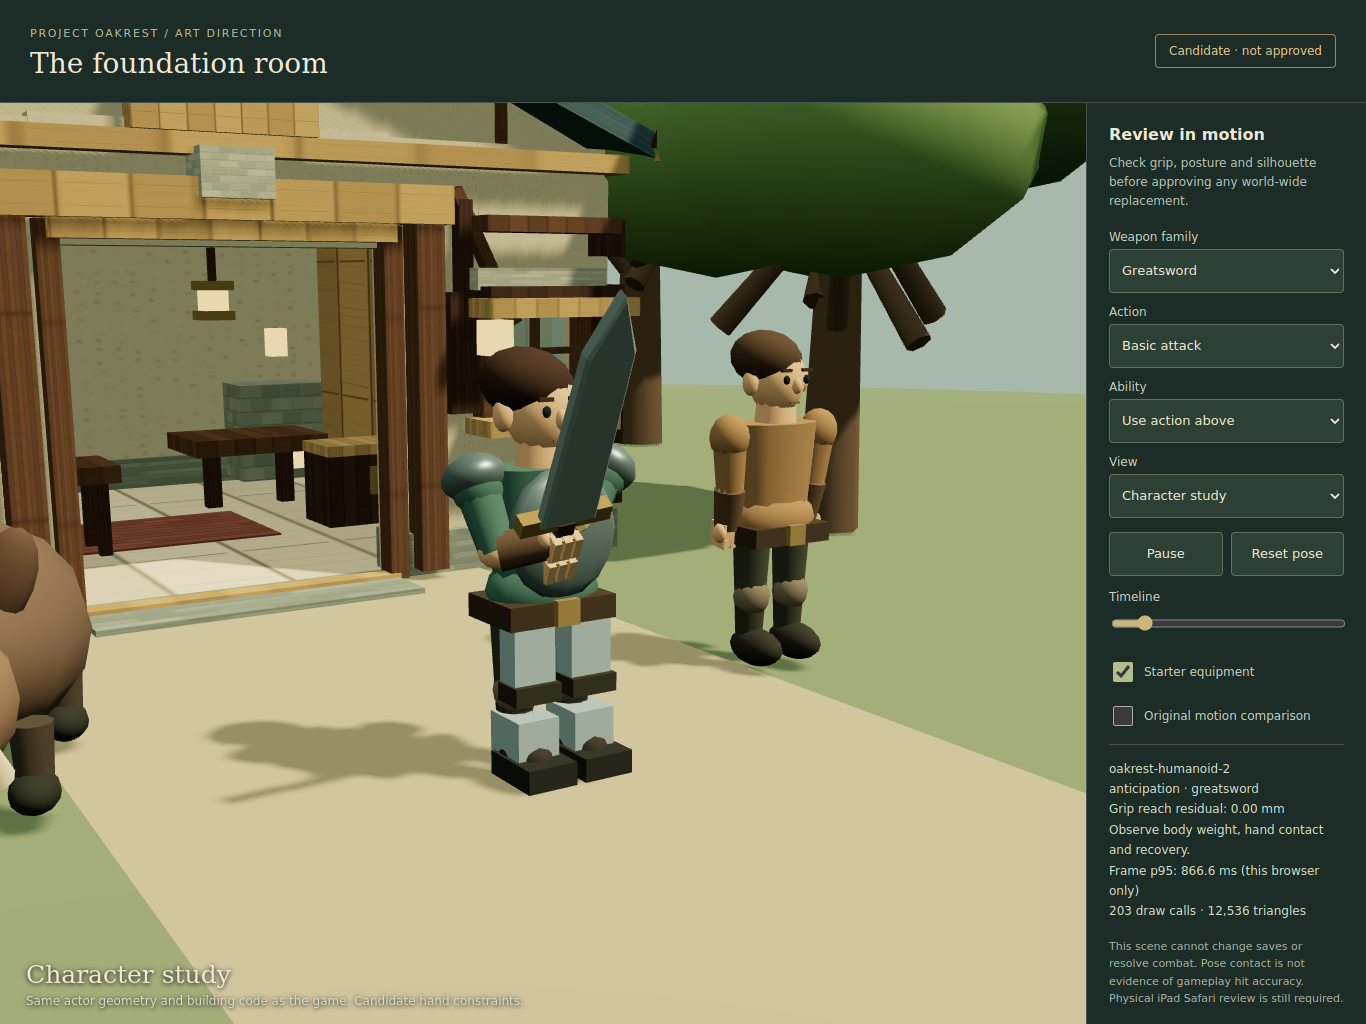
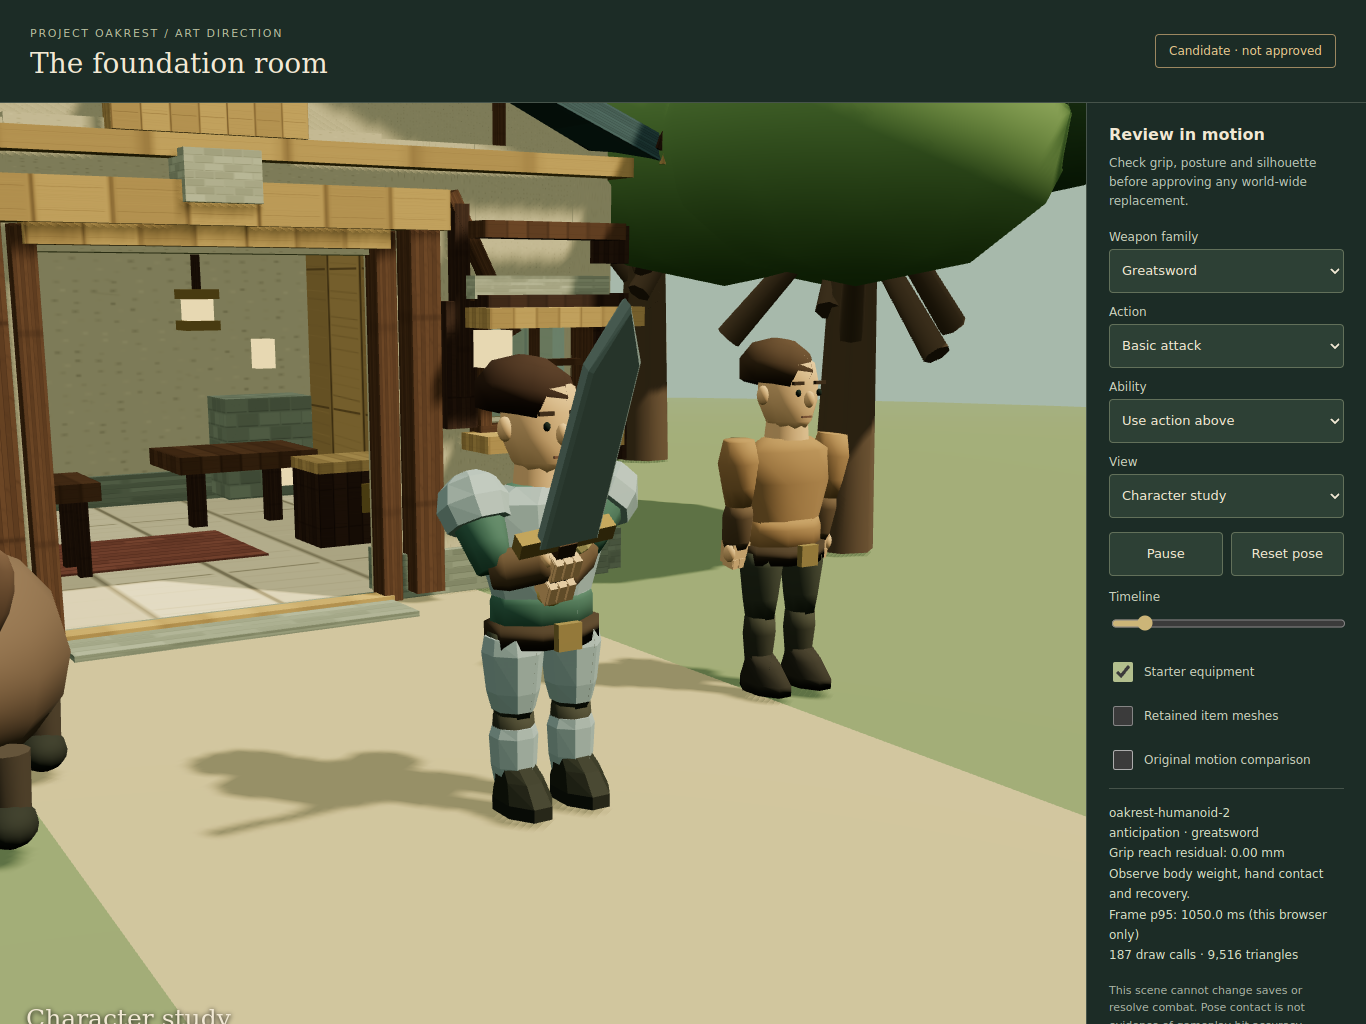
Shape canonical body and fitted armour around shared joint anchors

Changed region(s): [[0.0, 0.0938, 0.9839, 1.0], [0.7379, 0.0938, 0.7994, 0.2188], [0.7072, 0.2188, 0.7379, 0.25]]

diff --git a/src/actors.js b/src/actors.js
@@ -5,6 +5,7 @@ import {abilityMotion} from './animation-language.js';
 import {restoreKayKitPose,applyKayKitPose} from './kaykit-motion.js';
 import {animateFoundation} from './foundation-motion.js';
 import {HUMANOID_RIG_VERSION,HUMANOID_JOINTS} from './rig-contract.js';
+import {HUMANOID_SHAPES as shapes} from './humanoid-shapes.js';
 import {AXE_BY_ID} from './woodcutting.js';
 const materials=new Map(),geometries=new Map();
 const material=(color,metal=false)=>{const key=color+metal;if(!materials.has(key))materials.set(key,new THREE.MeshStandardMaterial({color,roughness:metal?.38:.88,metalness:metal?.55:0}));return materials.get(key);};
@@ -17,43 +18,53 @@ function pivot(parent,x,y,z){const p=new THREE.Group();p.position.set(x,y,z);par
 function taperedBlade(g,length,width){const shape=new THREE.Shape();shape.moveTo(-width/2,0);shape.lineTo(-width*.4,-length*.78);shape.lineTo(0,-length);shape.lineTo(width*.4,-length*.78);shape.lineTo(width/2,0);shape.closePath();const geo=new THREE.ExtrudeGeometry(shape,{depth:.055,bevelEnabled:true,bevelSize:.018,bevelThickness:.018,bevelSegments:1,steps:1});geo.rotateX(Math.PI/2);mesh(g,geo,'#b4c9cc',0,0,-.2,1,1,1,true);}
 export function createActor(bandit=false,{foundation=false}={}){
  const g=new THREE.Group(),rig=pivot(g,0,0,0),skin=material(bandit?'#b88b69':'#d6aa83').clone(),body=material(bandit?'#6a4d4e':'#607b7c').clone(),cloth=material('#34574e').clone();
- const torso=tube(rig,body,0,1.43,0,foundation?.37:.43,foundation?.29:.31,.82);torso.scale.z=.62;
+ const torso=foundation?mesh(rig,shapes.torso,body,0,1.43,0):tube(rig,body,0,1.43,0,.43,.31,.82);if(!foundation)torso.scale.z=.62;
  const trimMat=material('#c9b28a').clone();
  const outfitTrims=[
   block(rig,trimMat,0,1.46,-.275,.085,.56,.028),
   block(rig,trimMat,-.12,1.44,-.28,.045,.52,.03),
   block(rig,trimMat,.12,1.44,-.28,.045,.52,.03)
  ];
- ball(rig,body,0,1.12,0,.36,.23,.25);
+ if(foundation)mesh(rig,shapes.hips,body,0,1.12,0);else ball(rig,body,0,1.12,0,.36,.23,.25);
  const neck=tube(rig,skin,0,1.94,0,.14,.16,.22);
- const head=pivot(rig,0,2.15,0);const face=ball(head,skin,0,0,0,foundation?.245:.275,foundation?.30:.34,foundation?.235:.26);
+ const head=pivot(rig,0,2.15,0);const face=foundation?mesh(head,shapes.face,skin,0,0,0):ball(head,skin,0,0,0,.275,.34,.26);
  const hairMat=material('#40332a').clone();
- const hair=ball(head,hairMat,0,.17,.055,.285,.23,.27);
+ const hair=mesh(head,foundation?shapes.hair:sphere,hairMat,0,.17,.055,.285,.23,.27);
  const hairBack=ball(head,hairMat,0,-.15,.19,.24,.38,.13);hairBack.visible=false;
  const hairTail=ball(head,hairMat,.12,-.18,.30,.11,.32,.11);hairTail.visible=false;
  const hairCurls=[[-.20,.24,-.06],[0,.32,-.09],[.20,.24,-.06]].map(([x,y,z])=>{const curl=ball(head,hairMat,x,y,z,.11,.12,.12);curl.visible=false;return curl;});
- for(const s of [-1,1]){ball(head,skin,s*.27,-.01,.01,.065,.11,.07);ball(head,'#26332e',s*.105,.015,-.237,.03,.037,.02);block(head,'#493a2c',s*.11,.09,-.235,.10,.025,.03);}
+ for(const s of [-1,1]){ball(head,skin,s*(foundation?.245:.27),-.01,.01,foundation?.045:.065,foundation?.075:.11,foundation?.055:.07);ball(head,'#26332e',s*.105,.015,-.237,foundation?.022:.03,foundation?.028:.037,.02);block(head,'#493a2c',s*.11,.09,-.235,.10,.025,.03);}
  ball(head,skin,0,-.035,foundation?-.245:-.27,foundation?.04:.055,foundation?.065:.075,foundation?.045:.07);
  if(foundation){block(head,'#775848',0,-.17,-.225,.10,.015,.014);}
- block(rig,'#493d30',0,1.02,0,.71,.14,.49);block(rig,'#c8ab70',0,1.03,-.27,.15,.15,.05,true);
+ if(foundation)mesh(rig,shapes.belt,'#493d30',0,1.02,0);else block(rig,'#493d30',0,1.02,0,.71,.14,.49);block(rig,'#c8ab70',0,1.03,-.27,.15,.15,.05,true);
  const cape=pivot(rig,0,1.78,.25),capeGeo=new THREE.PlaneGeometry(.75,1.05,4,4);const cp=capeGeo.attributes.position;for(let i=0;i<cp.count;i++){const y=cp.getY(i);cp.setXYZ(i,cp.getX(i)*(1.10-y*.30),y,Math.cos(cp.getX(i)*5)*.06);}capeGeo.computeVertexNormals();cloth.side=THREE.DoubleSide;mesh(cape,capeGeo,cloth,0,-.53,.045);cape.rotation.x=.10;
- const chestPlate=ball(rig,material('#839a9b',true),0,1.48,-.22,.36,.38,.12);
- const leather=ball(rig,'#7a6045',0,1.45,-.20,.36,.36,.11);
+ const chestPlate=foundation?mesh(rig,shapes.chest,material('#839a9b',true),0,1.43,0):ball(rig,material('#839a9b',true),0,1.48,-.22,.36,.38,.12);
+ const leather=foundation?mesh(rig,shapes.chest,'#7a6045',0,1.43,0):ball(rig,'#7a6045',0,1.45,-.20,.36,.36,.11);
  const pauldrons=[];
- function leg(s){const p=pivot(rig,s*.19,1,0);tube(p,'#484b41',0,-.23,0,.145,.12,.46);const knee=pivot(p,0,-.46,0);ball(knee,'#7c7160',0,0,-.02,.14,.15,.14);tube(knee,'#45453b',0,-.19,0,.12,.10,.38);ball(knee,'#3b3831',0,-.38,-.09,.15,.14,.25);return {p,knee};}
- function arm(s){const p=pivot(rig,s*.43,1.77,0);ball(p,body,0,-.02,0,foundation?.15:.19,foundation?.17:.23,foundation?.15:.19);tube(p,body,0,-.22,0,.13,.105,.39);const elbow=pivot(p,0,-.40,0);ball(elbow,skin,0,0,0,.105,.11,.10);tube(elbow,'#675440',0,-.16,0,.12,.10,.30);const palm=ball(elbow,skin,0,-.33,0,.115,.135,.105);const hand=pivot(elbow,0,-.34,foundation?0:-.06);if(foundation){palm.removeFromParent();block(hand,skin,0,0,0,.17,.17,.16);for(let i=0;i<3;i++)block(hand,skin,-.07+i*.065,-.07,-.015,.046,.075,.14);ball(hand,skin,s*.095,.015,-.035,.045,.075,.06);}pauldrons.push(ball(p,material('#839a9b',true),0,.035,0,foundation?.19:.23,foundation?.13:.18,foundation?.19:.24));return {p,elbow,hand};}
+ function leg(s){
+  const p=pivot(rig,s*.19,1,0),knee=pivot(p,0,-.46,0);
+  if(foundation){mesh(p,shapes.thigh,'#484b41',0,0,0);mesh(knee,shapes.shin,'#45453b',0,0,0);mesh(knee,shapes.shoe,'#3b3831',0,0,0);}
+  else {tube(p,'#484b41',0,-.23,0,.145,.12,.46);ball(knee,'#7c7160',0,0,-.02,.14,.15,.14);tube(knee,'#45453b',0,-.19,0,.12,.10,.38);ball(knee,'#3b3831',0,-.38,-.09,.15,.14,.25);}
+  return {p,knee};
+ }
+ function arm(s){
+  const p=pivot(rig,s*.43,1.77,0),elbow=pivot(p,0,-.40,0);
+  if(foundation){mesh(p,shapes.upperArm,body,0,0,0);mesh(elbow,shapes.forearm,'#675440',0,0,0);}
+  else {ball(p,body,0,-.02,0,.19,.23,.19);tube(p,body,0,-.22,0,.13,.105,.39);ball(elbow,skin,0,0,0,.105,.11,.10);tube(elbow,'#675440',0,-.16,0,.12,.10,.30);ball(elbow,skin,0,-.33,0,.115,.135,.105);}
+  const hand=pivot(elbow,0,-.34,foundation?0:-.06);
+  if(foundation){block(hand,skin,0,0,0,.15,.16,.14);for(let i=0;i<3;i++)block(hand,skin,-.06+i*.055,-.065,-.015,.042,.07,.12);ball(hand,skin,s*.082,.015,-.035,.038,.065,.05);}
+  pauldrons.push(foundation?mesh(p,shapes.pauldron,material('#839a9b',true),0,.025,0):ball(p,material('#839a9b',true),0,.035,0,.23,.18,.24));
+  return {p,elbow,hand};
+ }
  const ll=leg(-1),rl=leg(1),la=arm(-1),ra=arm(1);
  g.userData={rig,head,body,cloth,cape,chestPlate,leather,pauldrons,skinMaterial:skin,hairMat,hair,hairBack,hairTail,hairCurls,torso,outfitTrims,leftLeg:ll.p,rightLeg:rl.p,leftKnee:ll.knee,rightKnee:rl.knee,leftArm:la.p,rightArm:ra.p,leftElbow:la.elbow,rightElbow:ra.elbow,weapon:ra.hand,offhand:la.hand,leftHand:la.hand,rightHand:ra.hand,foundation,owned:[],family:'sword'};
  if(foundation){
   const u=g.userData;u.rigVersion=HUMANOID_RIG_VERSION;u.head.scale.setScalar(.9);
-  face.geometry=face.geometry.clone();u.bodyGeometry=[face.geometry,capeGeo];
-  // Shape the jaw into deliberate planes instead of retaining a spherical chin.
-  const vertices=face.geometry.attributes.position;for(let i=0;i<vertices.count;i++){const y=vertices.getY(i);if(y<-.15)vertices.setX(i,vertices.getX(i)*(1+(y+.15)*.24));}face.geometry.computeVertexNormals();
+  u.bodyGeometry=[capeGeo];
   u.weapon=pivot(rig,.3,1.3,-.3);u.weapon.name='socket.weapon-control';
   u.offhand=pivot(la.hand,0,0,0);u.offhand.name='socket.offhand';
   for(const name of HUMANOID_JOINTS)u[name].name='humanoid.'+name;
-  // Preserve the existing world scale and clothing anchors. Geometry is shared
-  // with the live actor so the reference cannot silently use an unrelated model.
+  // Candidate silhouette meshes retain the established joint and equipment anchors.
  }
  if(bandit){ball(head,'#383e40',0,.16,.06,.33,.26,.31);block(head,'#5d5148',0,-.15,-.245,.45,.19,.05);}
  return g;

diff --git a/src/humanoid-shapes.js b/src/humanoid-shapes.js
@@ -1,0 +1,45 @@
+/** Project-authored silhouette meshes for the canonical reference humanoid.
+ * Rings are [height, half-width, half-depth, depth-centre]. These meshes share
+ * the existing joint anchors; changing art never changes capsule or reach.
+ * Cached geometry belongs to the module, not to an individual equipment slot.
+ */
+import * as THREE from 'three';
+
+function loft(rings, sides=8) {
+ const positions=[],indices=[];
+ for(const [y,x,z,centre=0] of rings)for(let i=0;i<sides;i++){
+  const a=(i+.5)*Math.PI*2/sides;
+  positions.push(Math.sin(a)*x,y,Math.cos(a)*z+centre);
+ }
+ for(let row=0;row<rings.length-1;row++)for(let i=0;i<sides;i++){
+  const a=row*sides+i,b=row*sides+(i+1)%sides,c=b+sides,d=a+sides;
+  indices.push(a,b,d,b,c,d);
+ }
+ // Rings are ordered bottom-to-top. End caps use the same outward winding.
+ for(let i=1;i<sides-1;i++)indices.push(0,i+1,i);
+ const top=(rings.length-1)*sides;
+ for(let i=1;i<sides-1;i++)indices.push(top,top+i,top+i+1);
+ const geometry=new THREE.BufferGeometry();
+ geometry.setAttribute('position',new THREE.Float32BufferAttribute(positions,3));
+ geometry.setIndex(indices);geometry.computeVertexNormals();
+ geometry.computeBoundingBox();geometry.computeBoundingSphere();
+ geometry.userData.sharedHumanoidShape=true;
+ return geometry;
+}
+
+export const HUMANOID_SHAPES=Object.freeze({
+ torso:loft([[-.41,.29,.19],[-.22,.28,.18],[.10,.37,.22],[.32,.36,.19],[.41,.20,.13]]),
+ hips:loft([[-.13,.31,.21],[.08,.31,.21],[.17,.28,.18]]),
+ belt:loft([[-.065,.345,.245],[.065,.345,.245]]),
+ chest:loft([[-.39,.30,.21],[-.20,.30,.20],[.10,.39,.245],[.32,.38,.215],[.405,.21,.15]]),
+ face:loft([[-.29,.115,.12,-.025],[-.21,.19,.185,-.02],[-.06,.25,.225],[.09,.25,.23],[.23,.21,.21],[.30,.10,.12]]),
+ hair:loft([[-.52,.94,.92],[.15,1.04,1.04],[.75,.78,.82],[1.05,.28,.38]]),
+ upperArm:loft([[-.39,.095,.10],[-.25,.12,.13],[-.08,.15,.15],[.07,.11,.12]]),
+ forearm:loft([[-.30,.085,.085],[-.24,.105,.105],[-.06,.115,.11],[.025,.09,.095]]),
+ thigh:loft([[-.45,.105,.115],[-.30,.13,.14],[-.06,.16,.17],[.035,.14,.14]]),
+ shin:loft([[-.39,.085,.09],[-.28,.105,.105],[-.10,.125,.12],[.025,.115,.115]]),
+ shoe:loft([[-.515,.145,.235,-.085],[-.44,.145,.235,-.085],[-.33,.12,.17,-.055],[-.25,.10,.105]]),
+ thighArmour:loft([[-.41,.12,.135],[-.30,.15,.16],[-.08,.175,.18],[.01,.16,.155]]),
+ greave:loft([[-.40,.105,.12],[-.27,.13,.135],[-.10,.14,.14],[-.045,.12,.13]]),
+ pauldron:loft([[-.16,.18,.185],[-.04,.205,.195],[.07,.16,.17],[.12,.08,.10]])
+});

diff --git a/src/character-equipment-art.js b/src/character-equipment-art.js
@@ -3,6 +3,7 @@
  * Armour slot graphics are cosmetic; stats and item ownership still live in rules.
  */
 import * as THREE from 'three';
+import {HUMANOID_SHAPES as shapes} from './humanoid-shapes.js';
 import {loadKayKit,cloneKayKitModel} from './model-assets.js';
 
 const box=new THREE.BoxGeometry(1,1,1),sphere=new THREE.SphereGeometry(1,9,7);
@@ -29,6 +30,7 @@ export function applyVisibleEquipment(actor,chest,slots={},style='melee'){
  const robe=chest==='starter-robes';
  u.chestPlate.visible=plating;u.leather.visible=leather;
  u.pauldrons.forEach(part=>part.visible=plating);
+ if(u.foundation){u.chestPlate.material=mat(metal);u.pauldrons.forEach(part=>part.material=mat(metal));}
  u.cape.visible=!plating&&!leather;
  if(robe){
   const torso=group(u,u.rig);
@@ -51,13 +53,13 @@ export function applyVisibleEquipment(actor,chest,slots={},style='melee'){
  }else u.hair.visible=true;
  if(slots.legs)for(const leg of [u.leftLeg,u.rightLeg]){
   const g=group(u,leg);
-  mesh(g,box,style==='melee'?metal:fabric,[0,-.24,-.15],[.27,.39,.17]);
-  mesh(g,box,'#403f35',[0,-.43,-.17],[.30,.11,.21]);
+  if(u.foundation)mesh(g,shapes.thighArmour,style==='melee'?metal:fabric,[0,0,0],[1,1,1]);
+  else {mesh(g,box,style==='melee'?metal:fabric,[0,-.24,-.15],[.27,.39,.17]);mesh(g,box,'#403f35',[0,-.43,-.17],[.30,.11,.21]);}
  }
  if(slots.boots)for(const knee of [u.leftKnee,u.rightKnee]){
   const g=group(u,knee);
-  mesh(g,box,style==='melee'?metal:'#5a493a',[0,-.27,-.11],[.27,.30,.32]);
-  mesh(g,box,'#363931',[0,-.42,-.21],[.32,.14,.43]);
+  if(u.foundation){mesh(g,shapes.greave,style==='melee'?metal:'#5a493a',[0,0,0],[1,1,1]);mesh(g,shapes.shoe,'#363931',[0,-.003,0],[1.04,1,1.04]);}
+  else {mesh(g,box,style==='melee'?metal:'#5a493a',[0,-.27,-.11],[.27,.30,.32]);mesh(g,box,'#363931',[0,-.42,-.21],[.32,.14,.43]);}
  }
  if(slots.amulet){
   const g=group(u,u.rig);

diff --git a/src/foundation-motion.js b/src/foundation-motion.js
@@ -43,7 +43,7 @@ export function animateFoundation(u,info){
   x=.17;y=alert?1.46:1.22;z=alert?-.25:-.22;rx=alert?0:-.35;
  }else if(family==='frost'||family==='ember'){
   x=.34;y=1.28+wind*.20+release*.08;z=-.28-wind*.12-release*.12;
-  rx=alert?.15+wind*.65-release*.20:1.15;
+  rx=family==='frost'?1.28+wind*.30-release*.50:alert?.15+wind*.65-release*.20:1.15;
   // Distinct tactical cues move the free hand, not only an effect colour.
   u.leftArm.rotation.set(-.22+cue.left*.65,0,.16+Math.abs(cue.left)*.2);
   u.leftElbow.rotation.x=-.25-cue.elbow*.5;

diff --git a/docs/visual-overhaul/QA.md b/docs/visual-overhaul/QA.md
@@ -61,7 +61,7 @@ Results are recorded below after actual runs; interrupted attempts do not count 
 | WebKit / physical iPad / desktop Safari | Not tested |
 | Development deployment | Not performed |
 
-Short reference performance sample: Chromium 134.0.6998.35, Linux headless, SwiftShader software GPU, 1366×1024 viewport with touch emulation and video capture. Measured **2.47 FPS mean**, **404.15 ms mean frame interval**, **500 ms p95**, **500 ms p99**; sampled ensemble reported 247 draw calls / 15,636 triangles. Browser-reported JS heap was approximately 12.7 MB used / 15.2 MB total. These are measured diagnostic values under software rendering, not an iPad result, a representative final-game benchmark, or a 60 FPS pass. Capture overhead and other validation activity make this unsuitable for a controlled performance comparison. No final performance gate passes on this evidence.
+Short reference performance sample after silhouette revision: Chromium 134.0.6998.35, Linux headless, SwiftShader software GPU, 1366×1024 viewport with touch emulation and video capture. Measured **2.15 FPS mean**, **464.27 ms mean frame interval**, **1233.40 ms p95**, **1233.40 ms p99**; sampled ensemble reported 234 draw calls / 12,964 triangles. Browser-reported JS heap was approximately 13.4 MB used / 14.3 MB total. These are measured diagnostics under software rendering, not an iPad result, representative final-game benchmark, or 60 FPS pass. Capture overhead and simultaneous validation activity prevent a controlled frame-time comparison. No final performance gate passes on this evidence.
 
 See [machine-readable metrics](evidence/reference-metrics.json), [original greatsword](evidence/before-greatsword.png), [candidate greatsword](evidence/after-greatsword.png), [bow](evidence/bow.png), [ensemble](evidence/ensemble.png) and [interior](evidence/interior.png). The local WebM and complete family captures are retained in `qa/visual-foundation/` and the CI artifact workflow collects that directory.
 
@@ -72,3 +72,5 @@ Imported-source visual inspection: rendered crossbow, greatsword and staff captu
 First revision CI evidence: [core run 39940405005](https://github.com/benhorner9/Projectoakrest/actions/runs/39940405005) passed all steps at `77fbc85aad24ced727f1e7da6ffa1081c4e894c7`, including smoke, existing inspector and reference browser. This run does not cover subsequent imported-source additions.
 
 CI infrastructure correction: bank run 39940405072 spent 6m30s downloading system packages, then its eight-minute job limit cancelled the bank walkthrough. The workflow now uses the runner system libraries, as core/Greenwood already do, with bounded Chromium installation and the unchanged full bank scenario. This fixes setup overhead; only a successful rerun establishes the bank check.
+
+Silhouette revision: the same actor factory now uses authored tapered body, face/hair, limbs, belt, boots and fitted chest/leg armour for the candidate. The legacy caller retains its original shapes. Shared chest/pauldron material now matches the fitted leg armour. Staff ready stance was raised from a horizontal hold. The seven-source browser test and full unit suite passed after the principal geometry change; final reference capture covers the subsequent belt/material/stance adjustments. Hands, full outfit compatibility and human motion acceptance remain open.

diff --git a/docs/visual-overhaul/STATUS.md b/docs/visual-overhaul/STATUS.md
@@ -20,7 +20,7 @@ Initiative: [#82](https://github.com/benhorner9/Projectoakrest/issues/82). Branc
 ## Implemented, awaiting acceptance
 
 - Candidate complete-pose driver and state precedence; hand contact is numeric evidence, not final animation choreography approval.
-- Revised head/jaw/shoulder proportions and simple fingers; deliberate face/armour modelling and silhouette review still needed.
+- Authored tapered torso, face/hair, sleeves, legs, boots, belt, chest armour, greaves and pauldrons, with unchanged joint anchors. Palms/fingers, complete outfit fitting and human silhouette/motion review still need work.
 - Basic walk/run, idle, ready, reaction, death and work pose presentation; start/stop, turns, strafing, full recovery blending and feet require further work.
 - Browser reference coverage and evidence are specified in `QA.md`; consult actual reported results, not this inventory of implementation.
 
@@ -28,7 +28,7 @@ Initiative: [#82](https://github.com/benhorner9/Projectoakrest/issues/82). Branc
 
 | ID | Finding | Required resolution |
 |---|---|---|
-| VIS-01 | Original body still visibly constructed from primitives; current armour is rigid overlay geometry. | Finish canonical model and fit all actual wearable combinations, then human visual review. |
+| VIS-01 | Candidate body/plate now uses fitted cross-section meshes, but hands, full outfits and joint intersections still need polish; armour remains rigid rather than skinned. | Finish canonical model and fit all actual wearable combinations, then human visual review. |
 | VIS-02 | Live imported held items still use a generic normalized-height offset. | Candidate per-mesh transforms now load in the reference, including corrected crossbow source axis. Finish human handle fitting, reload/focus part animation and every-state visual review before live migration. |
 | VIS-03 | Candidate ability cues do not yet provide fully distinct, final choreography for every mechanic. | Author/review each current ability, especially defence, healing, multi-shot and paired dagger strikes, against real event timing. |
 | VIS-04 | Candidate muzzle is diagnostic; real projectile spawning still uses the live hand offset. | Integrate into actual combat only with obstruction/range/trajectory regression; no purely visual authority. |

diff --git a/docs/visual-overhaul/ART_BIBLE.md b/docs/visual-overhaul/ART_BIBLE.md
@@ -13,7 +13,7 @@ The player, an unarmed civilian, a creature, a furnished building, terrain and v
 
 Preserve existing gameplay units while migrating artwork: +Y up, forward -Z, origin on the ground, rotations in radians, time in simulation seconds. Existing adult height is approximately 2.5 visual units; this is a compatibility constraint, not a claim that one game unit equals one metre. Do not rescale physics, reach, terrain, doors or speed to fit an asset.
 
-Reference anchors: hips Y=1.00, shoulders Y=1.77 at X=±0.43, neck Y=1.94, head centre Y=2.15. Upper arms 0.40, forearms to palm 0.34. These anchors are the tested migration baseline. A future proportion revision must update the canonical contract and rerun equipment/interior/collision review together. Target more deliberate face planes, narrower shoulder clothing and articulated hands before final art approval; the current primitive head/pauldrons are below the final target.
+Reference anchors: hips Y=1.00, shoulders Y=1.77 at X=±0.43, neck Y=1.94, head centre Y=2.15. Upper arms 0.40, forearms to palm 0.34. These anchors are the tested migration baseline. A future proportion revision must update the canonical contract and rerun equipment/interior/collision review together. Target more deliberate face planes, narrower shoulder clothing and articulated hands before final art approval; the current candidate remains subject to final face, hand and outfit review. The canonical reference now uses authored cross-section meshes for face, hair, torso, shoulders, limbs, boots and plate fitting, rather than spherical chest overlays and box greaves.
 
 Shoulder/elbow and hip/knee movement must follow anatomy. No scaling bones to reach a grip. Fingers wrap a handle; palms meet real geometry. A numeric hand-to-socket pass cannot approve wrist twist, silhouette or clipping.
 

diff --git a/docs/visual-overhaul/PIPELINE.md b/docs/visual-overhaul/PIPELINE.md
@@ -8,6 +8,8 @@ Canonical joints: `rig`, `head`, left/right `Arm`, `Elbow`, `Hand`, `Leg`, `Knee
 
 The candidate uses a complete bounded pose, followed by reach-envelope correction and two-bone arm solving. Bone lengths never change. It is not a skinned glTF pipeline or a full IK foot-placement solution. Future skins must bind the same conventions or use an explicit rest-pose conversion, validated against the actual source rig.
 
+`humanoid-shapes.js` owns reusable, project-authored cross-section geometry. Its ring coordinates fit existing joints; body, chest, thigh armour and boots share those dimensions. Geometry is cached and never disposed during equipment swaps. The reference civilian uses the same silhouette. These shapes are a model refinement, not certification of every outfit or an imported skinned mesh.
+
 ## Add a weapon
 
 1. Use the actual current item ID/family. Do not change reach, damage, timing or ownership.
